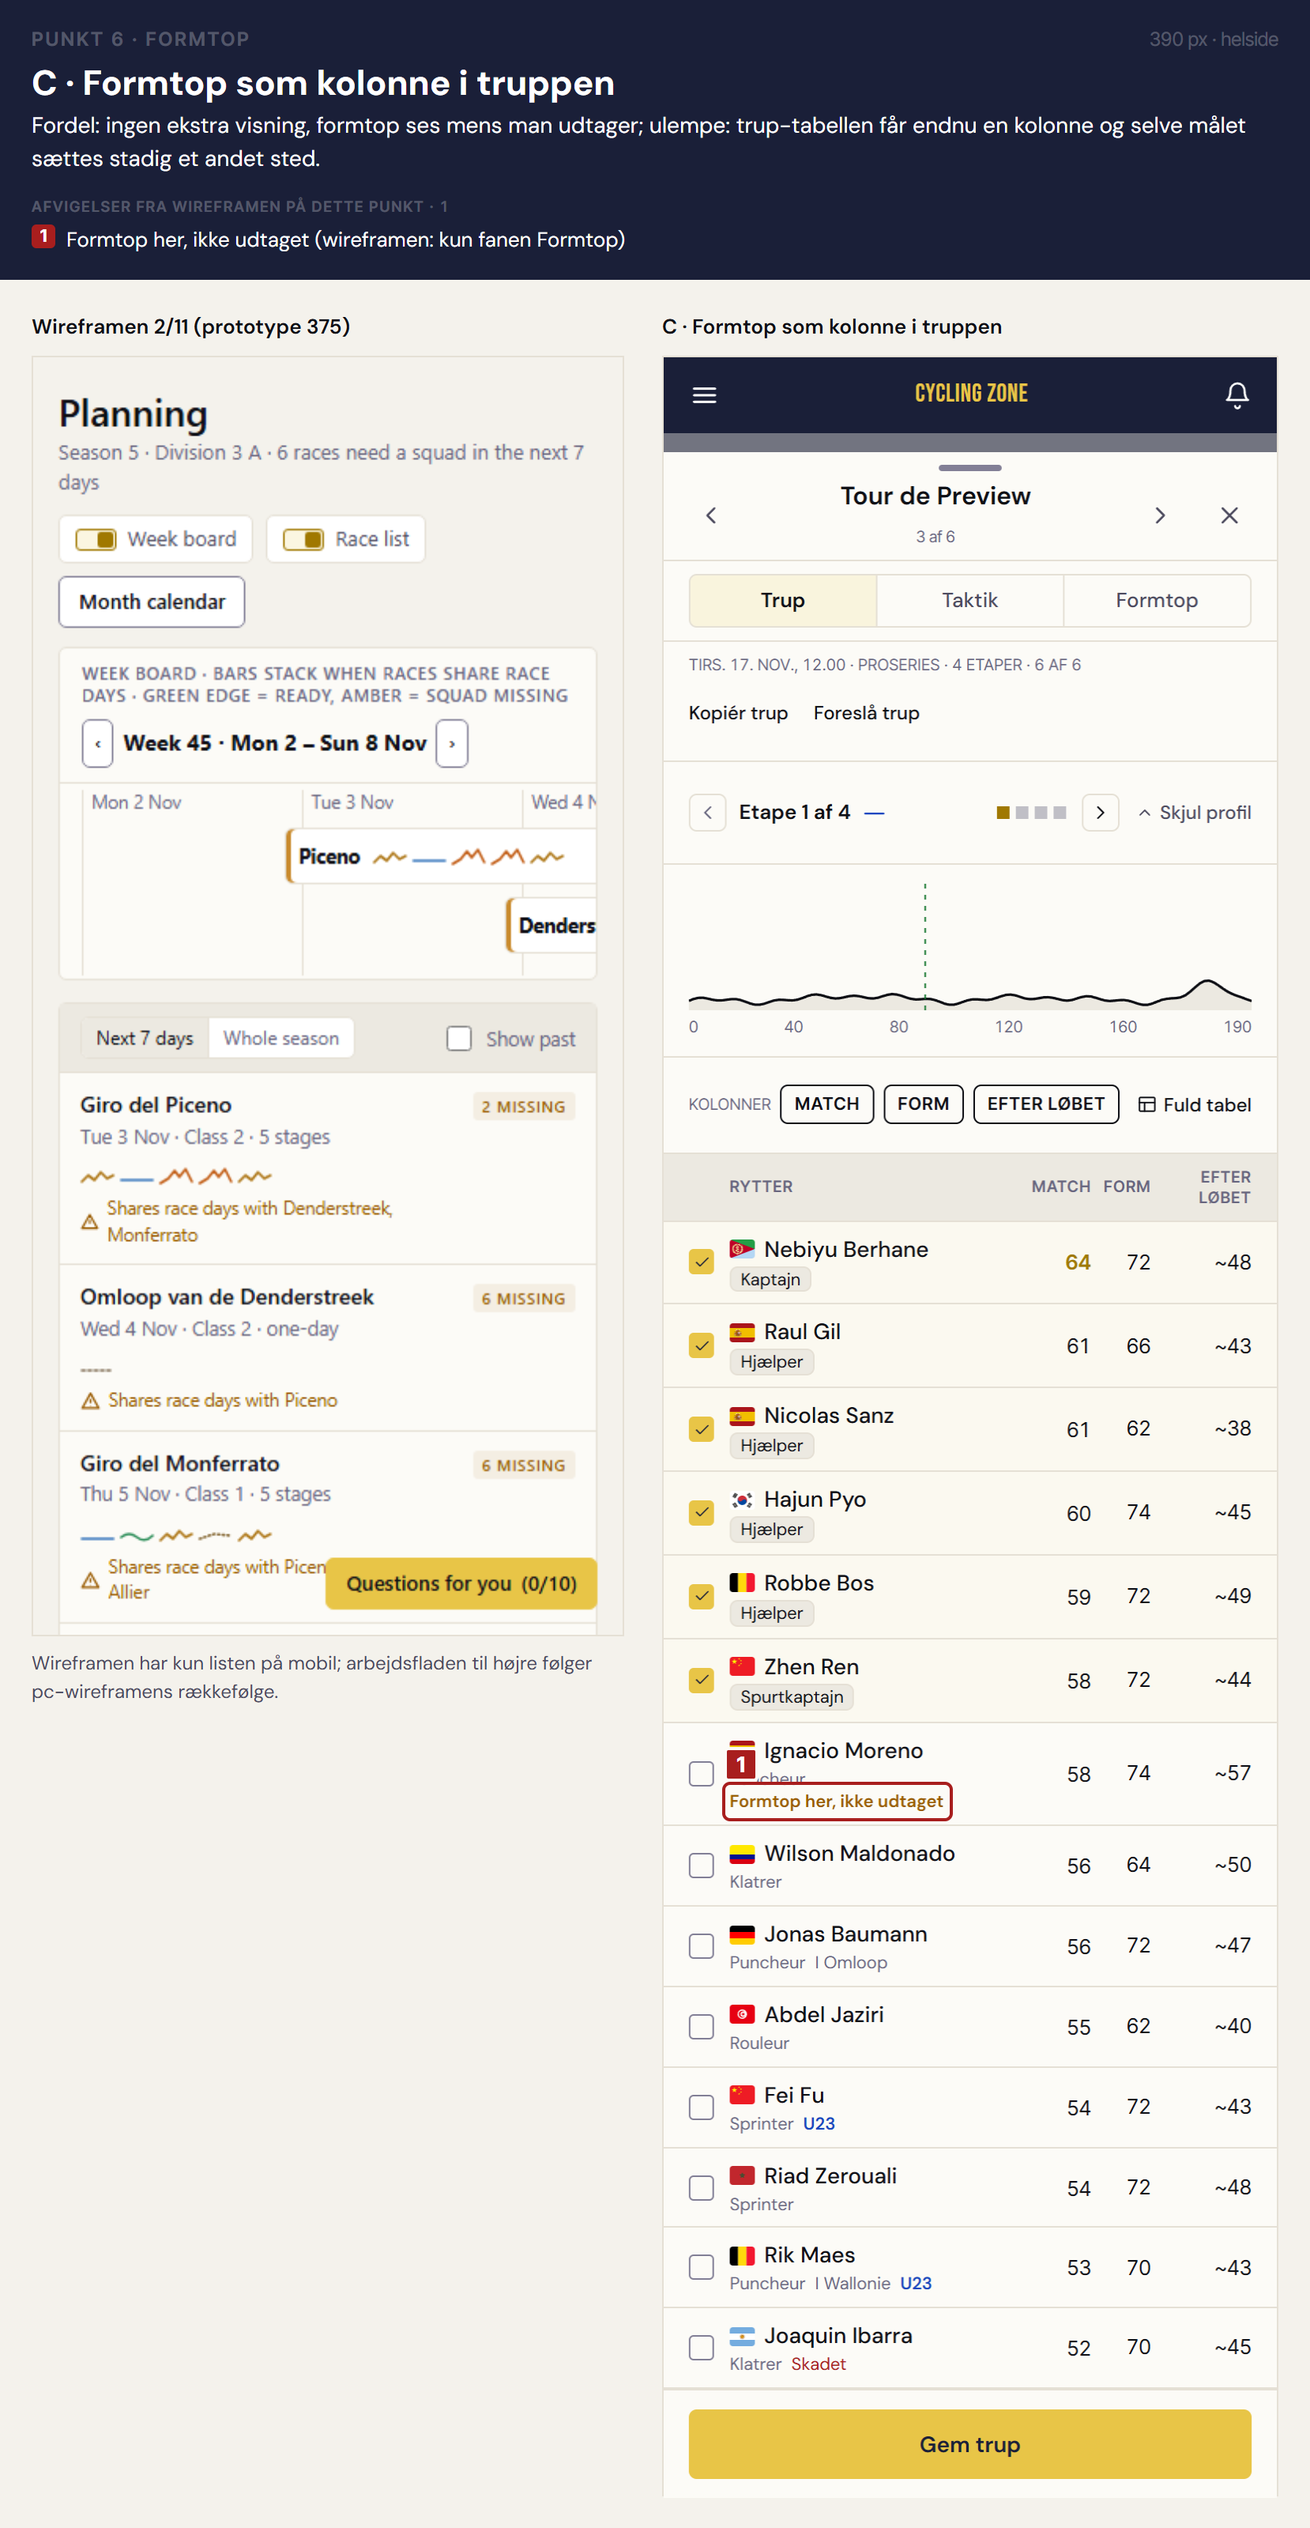
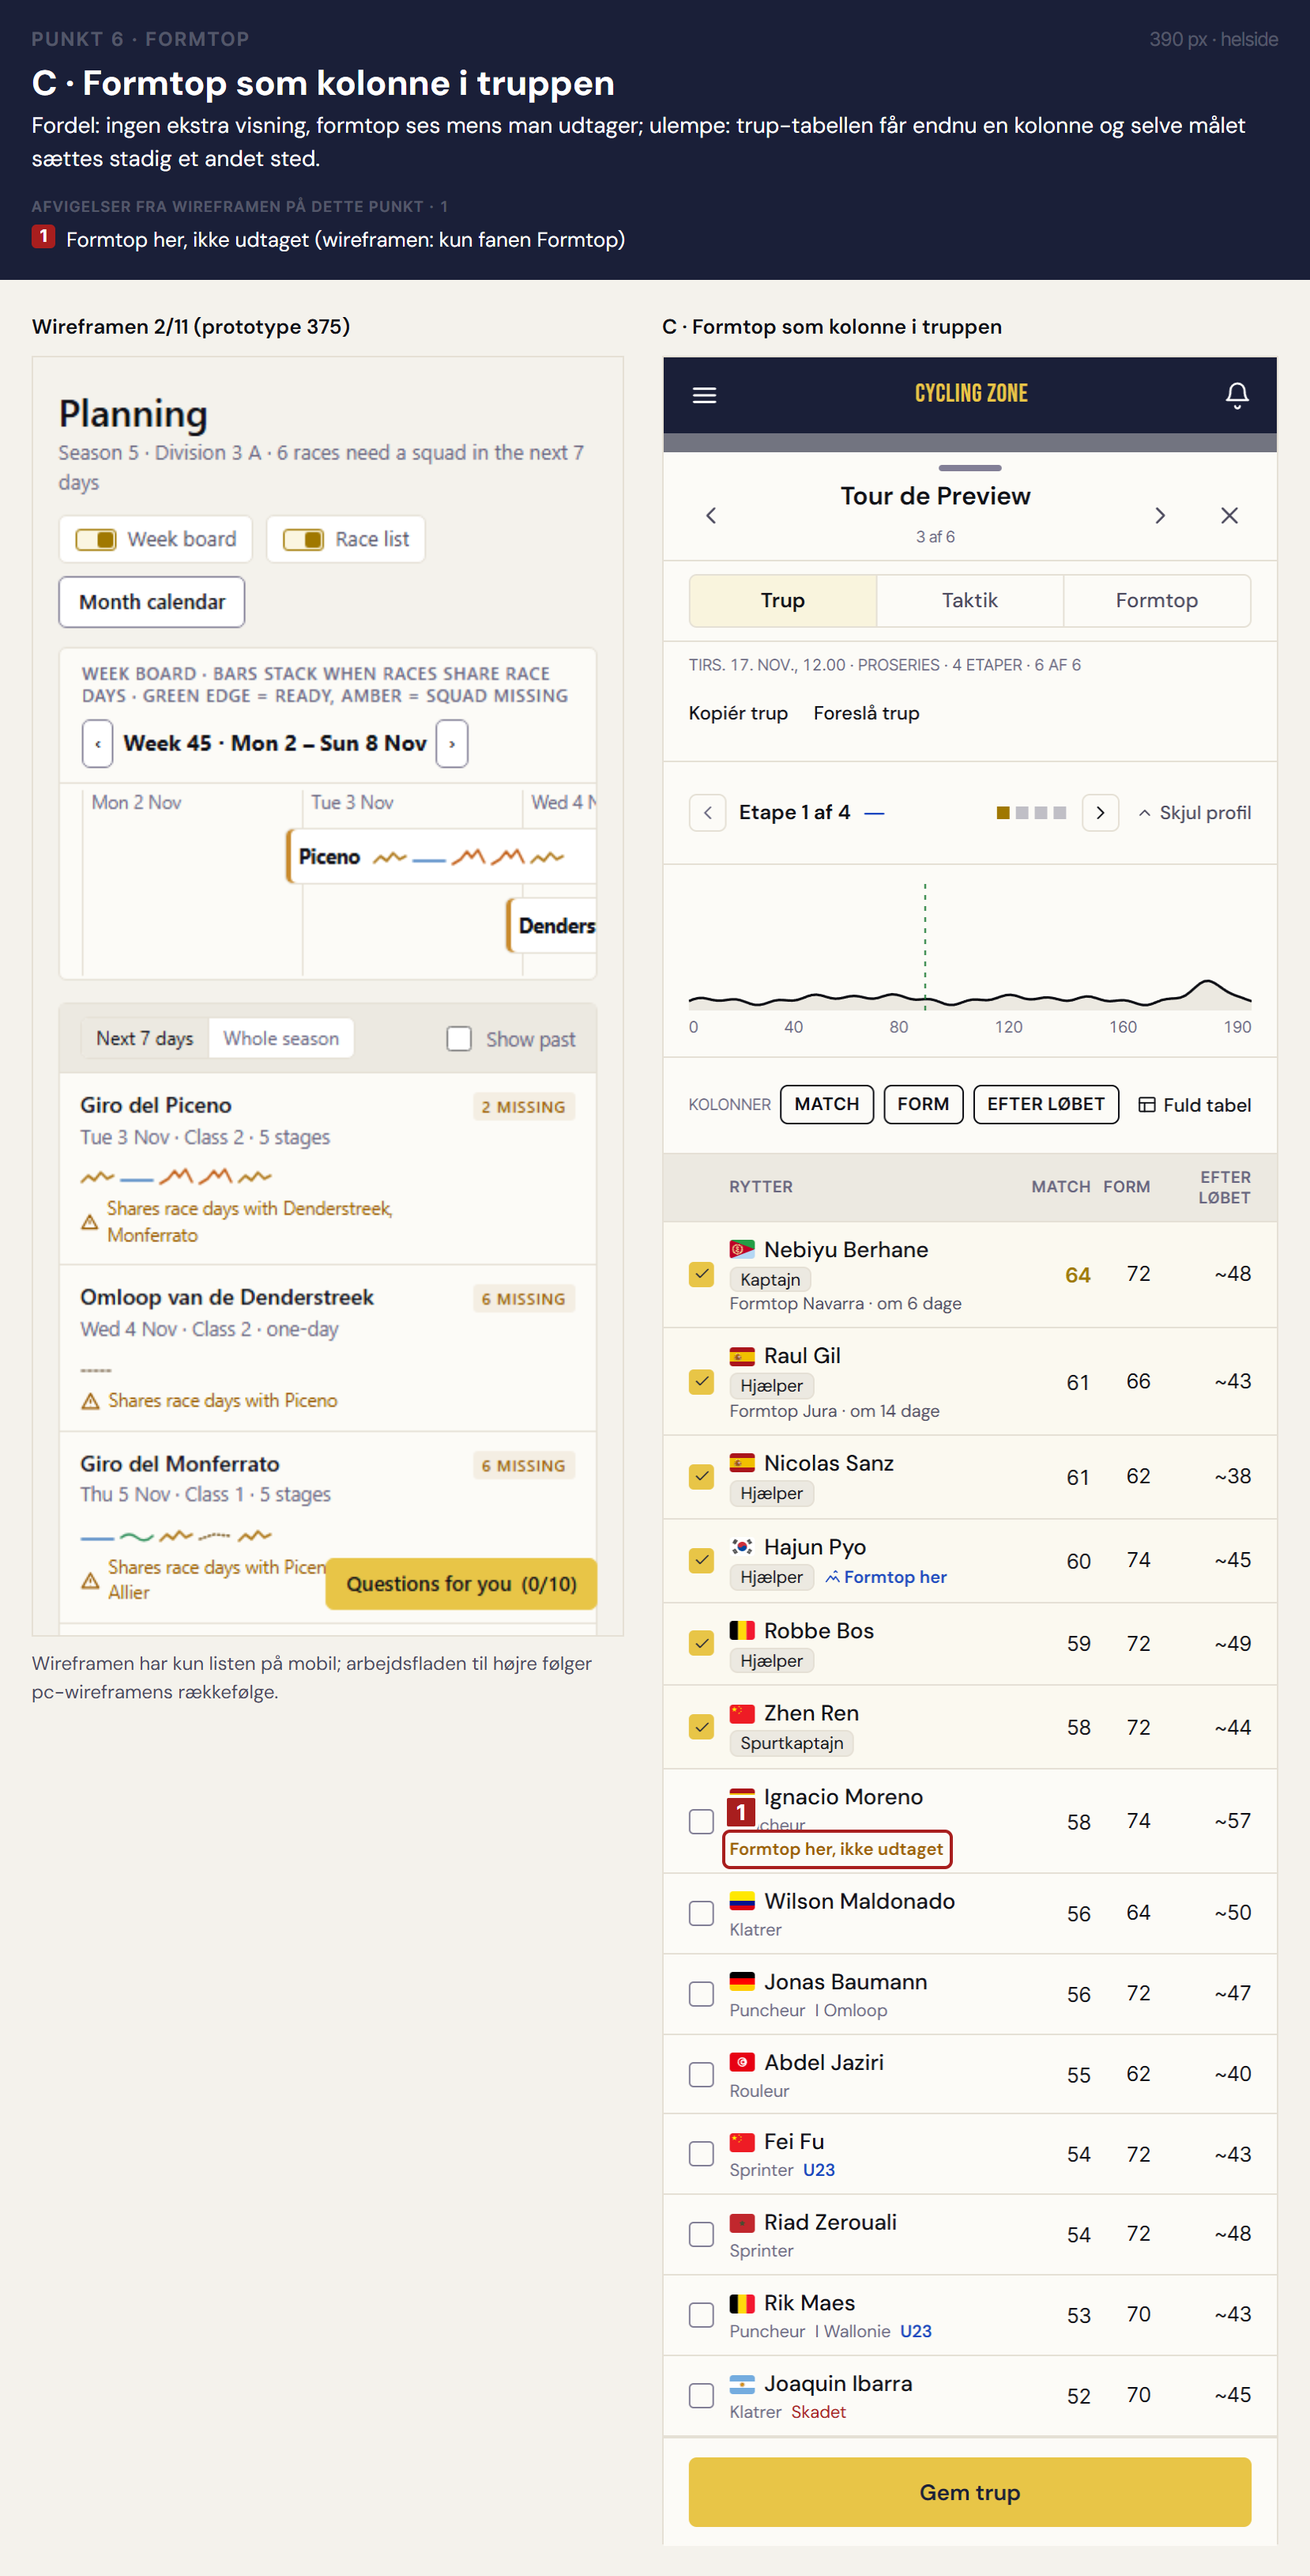
design(7535): 6C mobil viser formtop for alle ryttere med et maal, nyt 390-billede (Refs #8254)

diff --git a/frontend/src/preview/sketches/7535-valg-runde2/Sketch.tsx b/frontend/src/preview/sketches/7535-valg-runde2/Sketch.tsx
@@ -1004,6 +1004,19 @@ function MobileSquad({ cfg }: { cfg: Config }) {
               Formtop her, ikke udtaget
             </span>,
           );
+        // Codex P2 16/11: 6C mobil viser formtop for ALLE ryttere med et mål, som desktop (PeakCell).
+        if (cfg.peak === "column" && r.peak?.here && r.selected && !rich)
+          sub.push(
+            <span key="pkh" className="inline-flex items-center gap-0.5 font-semibold text-cz-info">
+              {Ico.peak(11)} Formtop her
+            </span>,
+          );
+        if (cfg.peak === "column" && r.peak && !r.peak.here)
+          sub.push(
+            <span key="pko" className="text-cz-2">
+              Formtop {r.peak.race.split(" ").slice(-1)[0]} · {r.peak.when.split(" · ")[1]}
+            </span>,
+          );
         const matchEl = rich ? (
           <MatchBar value={r.routeMatch} narrow />
         ) : (
